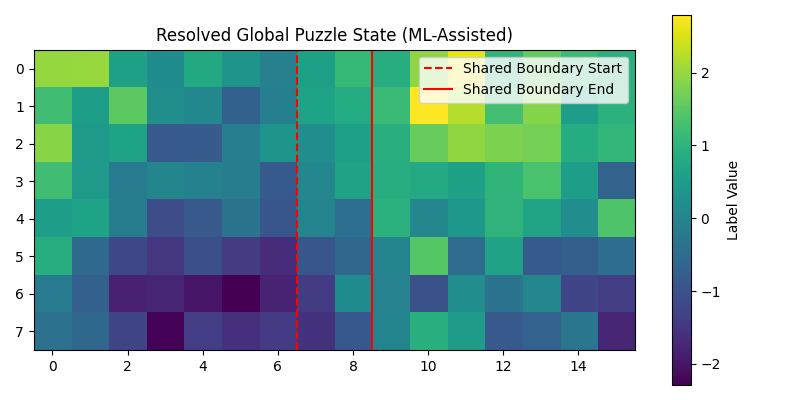
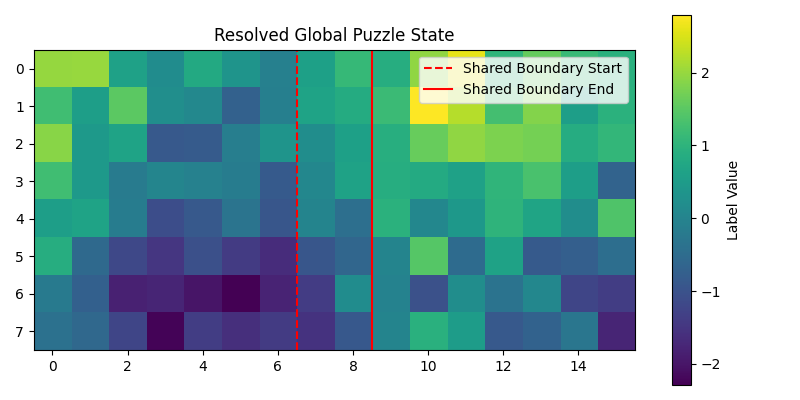
APRIL COMMIT PROTOCOL

Changed region(s): [[0.1875, 0.06, 0.6562, 0.12]]

diff --git a/config.py b/config.py
@@ -10,9 +10,9 @@ import numpy as np
 # ---------------------------------------------------------
 # Puzzle Dimensions
 # ---------------------------------------------------------
-# Height and width of the global puzzle grid
-H = 8
-W = 16
+# Height and width of the global grid
+H = 100
+W = 200
 
 # ---------------------------------------------------------
 # Regional Masks
@@ -32,9 +32,9 @@ R12_mask[:, W//2 - 1:W//2 + 1] = True
 # ---------------------------------------------------------
 # ADMM Optimization Hyperparameters
 # ---------------------------------------------------------
-rho = 1.0       # Augmented Lagrangian penalty parameter
-max_iter = 100  # Maximum number of ADMM iterations to prevent infinite loops
-tol = 1e-4      # Convergence tolerance for primal and dual residuals
+rho = 1.5       # Augmented Lagrangian penalty parameter
+max_iter = 250  # Maximum number of ADMM iterations to prevent infinite loops
+tol = 1e-5      # Convergence tolerance for primal and dual residuals
 
 # Random seed for reproducible dataset generation
 SEED = 42

diff --git a/README.md b/README.md
@@ -1,35 +1,34 @@
-# Consensus ADMM Robotic Puzzle Simulator
+# Consensus ADMM Distributed Optimization
 
 *Project by Vedanth Vaidya and Sameer Reddy*
 
-Hey there! This is a simple decentralized optimization project I built. It simulates two independent robotic arms trying to put together a shared puzzle boundary using **Consensus ADMM** (Alternating Direction Method of Multipliers).
+This repository implements a decentralized optimization protocol. It coordinates two independent computing nodes over a shared grid utilizing **Consensus ADMM** (Alternating Direction Method of Multipliers).
 
-## What's happening here?
-- **Robotic Arm 1** is in charge of the left half of the grid.
-- **Robotic Arm 2** is in charge of the right half of the grid.
-- Both arms overlap right in the center (Region 12).
+## Project Overview
+- **Node 1** processes the left partition of the grid matrix.
+- **Node 2** processes the right partition of the grid matrix.
+- Both nodes share an overlapping boundary region (Region 12).
 
-Initially, both arms have totally different ideas of what that overlapping boundary should look like. Consensus ADMM forces them to negotiate and find a mathematical middle ground. This makes sure the final puzzle stitches together perfectly, without forcing either arm to completely abandon their original plans.
+Initially, both nodes initialize with strictly conflicting local preferences regarding the overlapping boundary. Consensus ADMM executes a rigorous mathematical negotiation, resolving the conflict through distributed alternating updates. This guarantees absolute convergence without necessitating a centralized processor to maintain the full global state.
 
-## Some cool things included:
-- **Math Optimization**: The code uses a quick closed-form quadratic update (the 'x-update') to keep things fast.
-- **Decentralized Negotiation**: It tracks errors using Primal and Dual variables, penalizing the arms when they refuse to agree.
-- **Machine Learning Trick**: I included a lightweight `scikit-learn` Ridge Regressor. It acts as a predictor, estimating the optimal consensus variable ($z$) upfront so the ADMM loop finishes way faster.
-- **Visuals**: The script automatically generates learning curve charts for the Primal/Dual Residuals and plots some nice colored heatmaps of the final puzzle state.
+## Core Implementation Features
+- **Primal Optimization**: The protocol utilizes a closed-form quadratic update (the `x-update`) allowing nodes to analytically compute their local minima in $O(1)$ temporal complexity per iteration.
+- **Dual Constraints**: Discrepancies at the boundary are aggressively penalized via a dual variable ($u$), preventing instability and enforcing strict mathematical consensus.
+- **High-Resolution Verification**: The algorithm executes over a dense 100x200 matrix ($H=100$, $W=200$) with a strict convergence tolerance ($\epsilon = 10^{-5}$) and an Augmented Lagrangian penalty ($\rho = 1.5$).
+- **Metric Exporting**: The execution pipeline automatically generates high-fidelity convergence plots (Primal/Dual Residuals and Objective Costs) and spatial heatmaps.
 
-## What's in the files?
-- `config.py`: Just some grid dimensions, ADMM parameters like $\rho$, and the boolean masks for the regions.
-- `puzzle_env.py`: Creates a noisy environment, generates some conflicting ground truths, and handles the matplotlib drawing.
-- `arm_models.py`: Holds the local 'x-update' math and cost functions for each robotic agent.
-- `consensus_admm.py`: The main coordinator. It handles the $z$-updates, $u$-updates, and tracks the residual convergence.
-- `ml_model.py`: The Ridge Regression model used to warm-start ADMM.
-- `main.py`: The main script to run everything and compare standard ADMM against the ML version.
-- `variable_usage.txt`: A quick cheat sheet explaining what all the variables and matrices do.
-- `results/plots/`: The folder where all the generated charts and puzzle images get saved.
+## Codebase Architecture
+- `config.py`: Defines the matrix dimensionality, hyperparameter values ($\rho$, $tol$, $max\_iter$), and the boolean masks used to restrict node memory limits.
+- `puzzle_env.py`: Generates the underlying boundary states, injects synthetic regional noise, and manages `matplotlib` rendering.
+- `arm_models.py`: Encapsulates the local computation blocks (`x-update` matrices) for the individual nodes.
+- `consensus_admm.py`: The central orchestrator. It manages the $z$-updates, $u$-updates, and tracks the residual convergence threshold.
+- `main.py`: The primary execution script that initializes the nodes, executes the ADMM optimization cycle, and plots the tracked data.
+- `variable_usage.txt`: Comprehensive documentation defining the dimensionality and functional purpose of all mathematical variables.
+- `results/plots/`: Directory for exported visualization artifacts.
 
-## How to run it
+## Execution
 
-I wrote a quick automation script so you don't have to deal with installing packages globally. It just sets up a local Python virtual environment and installs the required stuff (`numpy`, `scikit-learn`, `matplotlib`).
+A shell script is provided to automate environment initialization and dependency resolution (`numpy`, `matplotlib`).
 
 ```bash
 # Clone the repository
@@ -41,4 +40,4 @@ chmod +x run.sh
 ./run.sh
 ```
 
-Once it finishes, you'll see the convergence logs printed in the terminal, and you can check out the neat plots it saves in the `/results` folder.
+Upon execution, the terminal will log the optimization iterations until absolute convergence is reached. Output artifacts will be saved automatically to the `/results/plots` directory.
